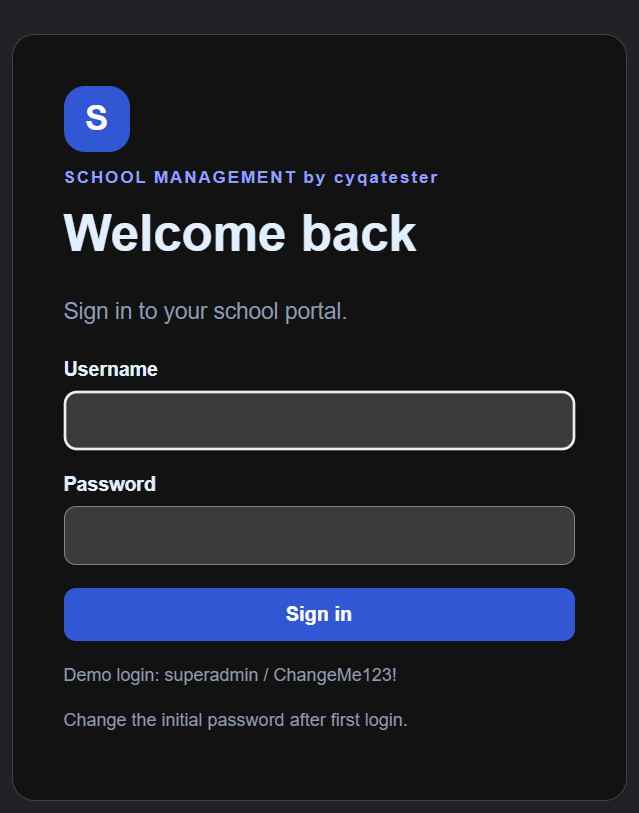
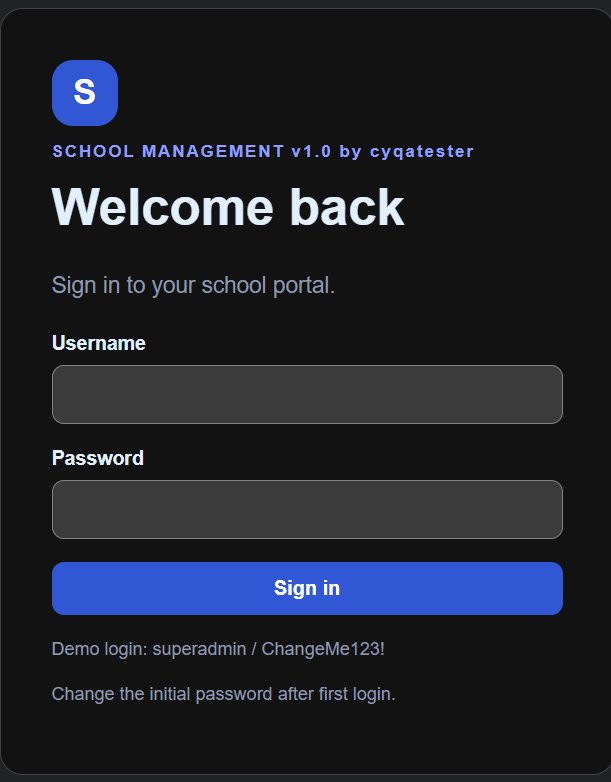
Updated login, and added default teacher and student users

diff --git a/src/main/resources/templates/login.html b/src/main/resources/templates/login.html
@@ -11,7 +11,7 @@
 <body class="login">
     <main class="login-card">
         <div class="logo">S</div>
-        <p class="eyebrow">SCHOOL MANAGEMENT by cyqatester</p>
+        <p class="eyebrow">SCHOOL MANAGEMENT v1.0 by cyqatester</p>
         <h1>Welcome back</h1>
         <p class="muted">Sign in to your school portal.</p>
         <p class="error" th:if="${param.error}">Invalid username or password.</p>

diff --git a/src/main/java/com/example/school/service/UserService.java b/src/main/java/com/example/school/service/UserService.java
@@ -18,9 +18,15 @@ public class UserService implements CommandLineRunner {
     }
 
     public void run(String... args) {
-        if (repo.all().isEmpty())
+        if (repo.all().isEmpty()) {
             repo.save(new User(UUID.randomUUID().toString(), "Super", "Admin", "superadmin",
                     encoder.encode("ChangeMe123!"), Role.ADMIN, true, List.of()));
+            repo.save(new User(UUID.randomUUID().toString(), "Teacher", "One", "teacher",
+                    encoder.encode("teacher1234"), Role.TEACHER, true, List.of()));
+            repo.save(new User(UUID.randomUUID().toString(), "Student", "One", "student",
+                    encoder.encode("student1234"), Role.STUDENT, true, List.of()));
+        }
+            
     }
 
     public List<User> all() {
